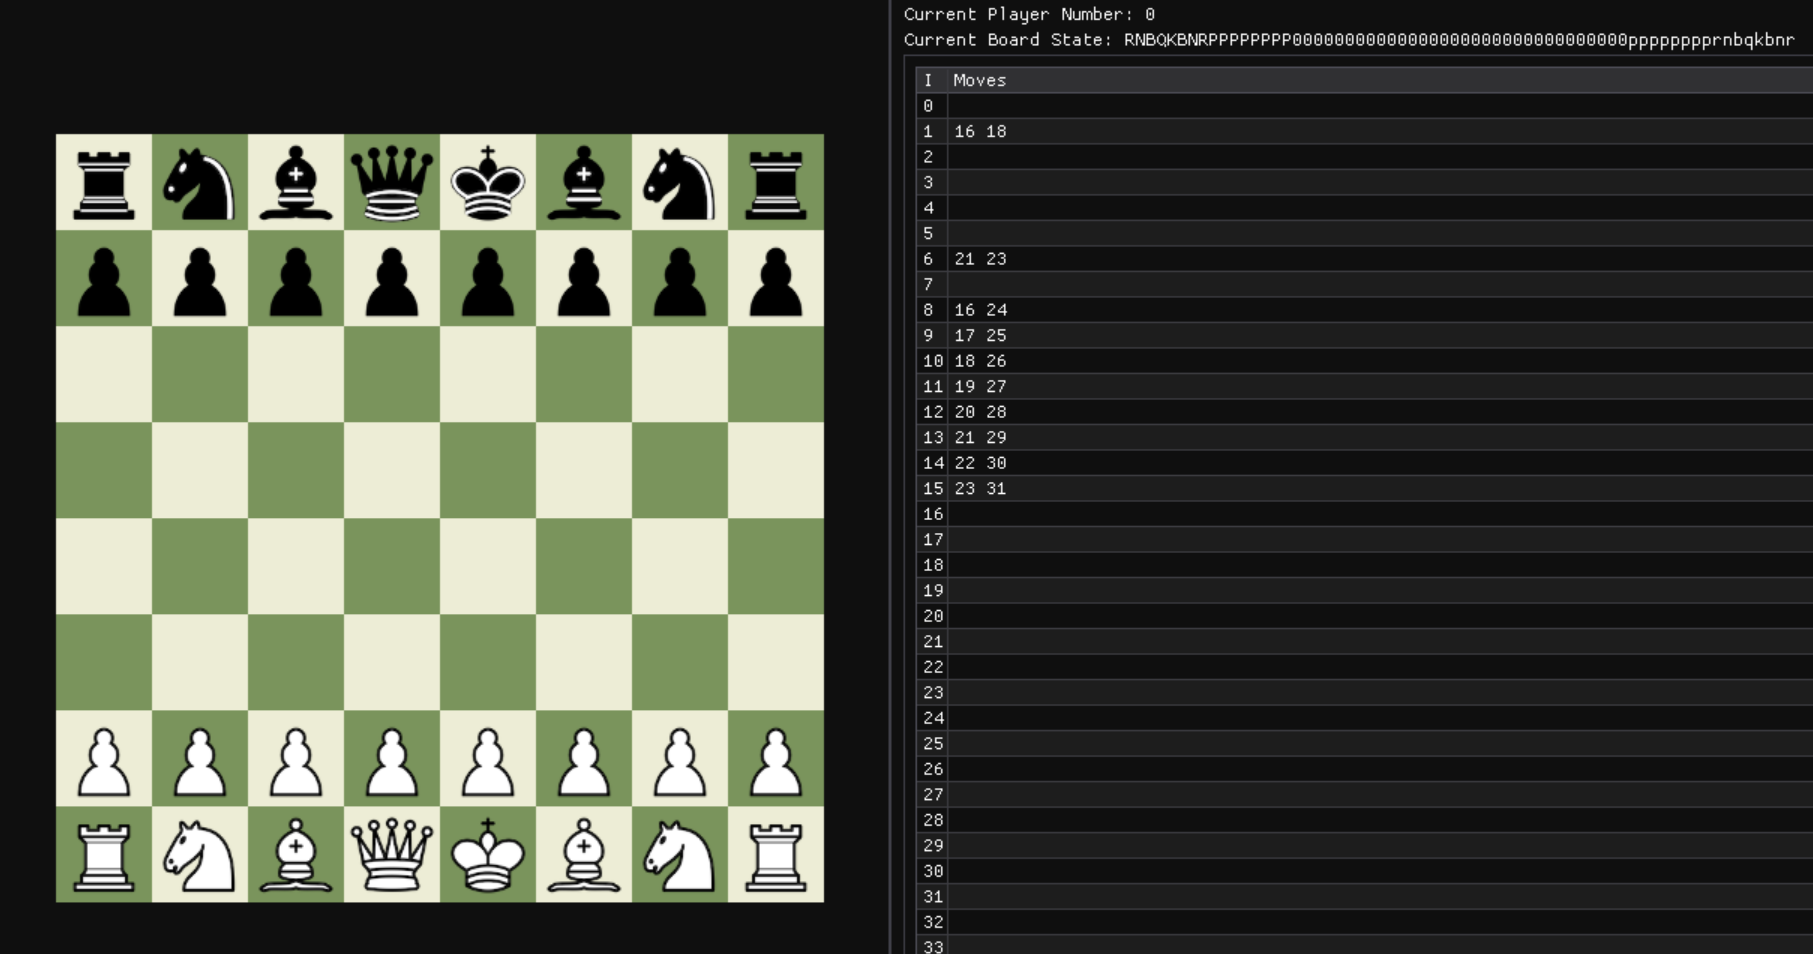
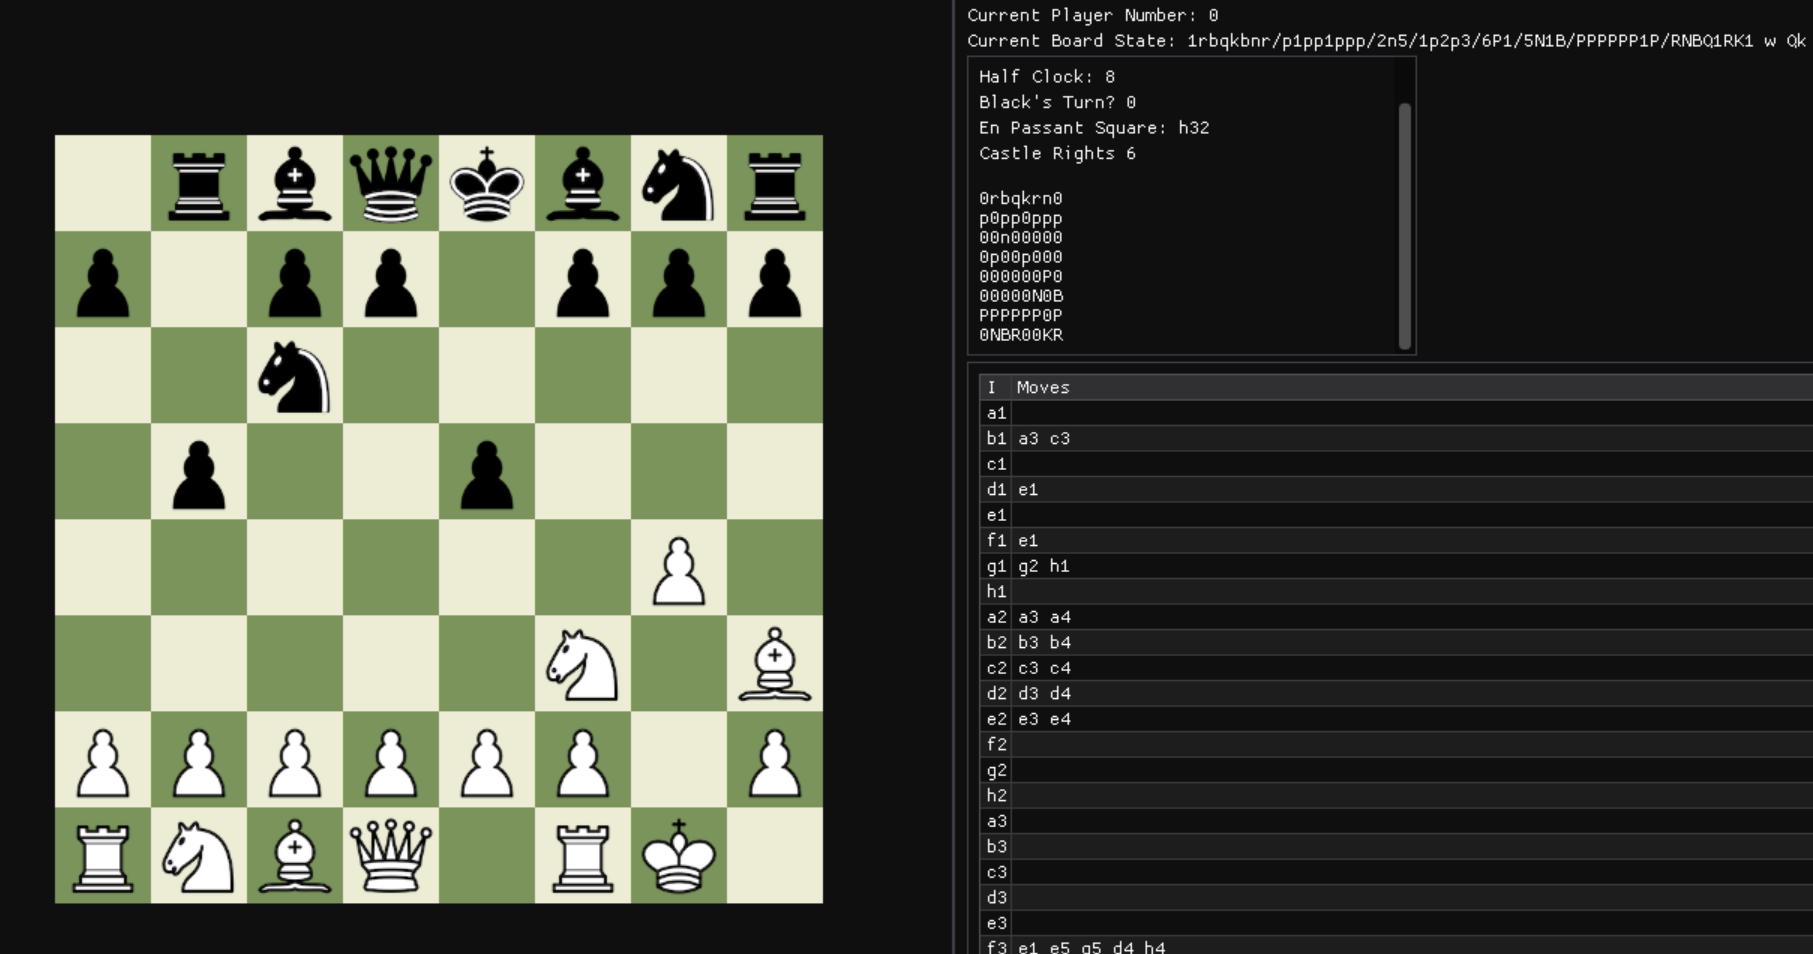
Updated Readme, fixed critical castling oversight, fixed state display.

diff --git a/classes/Chess.cpp b/classes/Chess.cpp
@@ -323,7 +323,7 @@ void Chess::bitMovedFromTo(Bit &bit, BitHolder &src, BitHolder &dst) {
 	if (_state.top().getEnPassantSquare() == j) {
 		_grid[j + (_state.top().isBlackTurn() ? 8 : -8)].destroyBit();
 		// increment score.
-	} else if (move->isCastle()) { // castle
+	} else if (move->isCastle() && ((bit.gameTag() & ChessPiece::King) == ChessPiece::King)) { // castle
 		uint8_t offset = _state.top().isBlackTurn() ? 56 : 0;
 		uint8_t rookSpot = (move->QueenSideCastle() ? 0 : 7) + offset;
 		uint8_t targ = (move->QueenSideCastle() ? 3 : 5) + offset;
@@ -463,9 +463,6 @@ std::string Chess::stateString() {
 	return s;
 }
 
-// for my sanity
-#include <sstream>
-
 // this still needs to be tied into imguis init and shutdown
 // when the program starts it will load the current game from the imgui ini file and set the game state to the last saved state
 // modified from Sebastian Lague's Coding Adventure on Chess. 2:37
@@ -529,10 +526,7 @@ void Chess::setStateString(const std::string& fen) {
 	while (std::isdigit(fen[++i])) { hClock = hClock * 10 + (fen[i] - '0'); }
 	while (std::isdigit(fen[++i])) { fClock = fClock * 10 + (fen[i] - '0'); }
 
-	std::ostringstream oss;
-	oss << "State from FEN: " << fen << " | " << isBlack << ", " << (int)castling << ", " << (int)enTarget << ", " << (int)hClock << ", " << (int)fClock; 
-	Loggy.log(oss.str());
-	_state.emplace(isBlack, castling, enTarget, hClock, fClock);
+	_state.emplace(fen, isBlack, castling, enTarget, hClock, fClock);
 }
 
 // this is the function that will be called by the AI

diff --git a/classes/GameState.cpp b/classes/GameState.cpp
@@ -5,7 +5,7 @@
 
 const uint8_t MAX_DEPTH = 24; // for AI purposes
 // Generate from FEN
-GameState::GameState(const bool isBlack, const uint8_t castling,
+GameState::GameState(const std::string& fen, const bool isBlack, const uint8_t castling,
 	const uint8_t enTarget, const uint8_t hClock, const uint16_t fClock) 
 	: isBlack(isBlack),
 	castlingRights(castling),
@@ -13,6 +13,31 @@ GameState::GameState(const bool isBlack, const uint8_t castling,
 	halfClock(hClock),
 	clock(fClock) {
 	std::memset(state, '0', sizeof(state));
+
+	int file = 7;
+	int rank = 0;
+	for (size_t i = 0; i < fen.size(); i++) {
+		const char symbol = fen[i];
+		if (symbol == ' ') { // terminating when reaching turn indicator
+			break;
+		}
+
+		if (symbol == '/') {
+			for (; rank < 8; rank++) {
+				state[file * 8 + rank] = '0';
+			}
+			rank = 0;
+			file--;
+		} else {
+			// this is for the gap syntax.
+			if (std::isdigit(symbol)) {
+				rank += symbol - '0';
+			} else {
+				state[file * 8 + rank] = symbol;
+				rank++;
+			}
+		}
+	}
 }
 
 // generate next move
@@ -25,6 +50,7 @@ GameState::GameState(const GameState& old, const Move& move)
 	enPassantSquare(move.isDoublePush() ? (move.getTo() + (isBlack ? -8 : 8)) : 255), // 255 b/c not a value normally reachable in gameplay
 	halfClock(move.isCapture() ? 0 : old.halfClock + 1),
 	clock(old.clock + 1) {
+	std::memcpy(state, old.state, sizeof(state));
 	char movingPiece = state[move.getFrom()];
 	state[move.getTo()] = movingPiece;
 	state[move.getFrom()] = '0';

diff --git a/Application.cpp b/Application.cpp
@@ -62,11 +62,16 @@ namespace ClassGame {
 
 		std::string stateStr = "";
 		const char* t = state.getState();
+		int file = 8;
+		int rank = 0;
 		for (int i = 0; i < 64; i++) {
 			if (i % 8 == 0) {
 				stateStr += '\n';
+				file--;
+				rank = 0;
 			}
-			stateStr += t[i];
+			stateStr += t[file * 8 + rank];
+			rank++;
 		}
 		ImGui::Text("%s", stateStr.c_str());
 		ImGui::EndChild();

diff --git a/classes/GameState.h b/classes/GameState.h
@@ -1,13 +1,14 @@
 #pragma once
 
 #include <cstdint>
+#include <string>
 
 #include "Move.h"
 
 class GameState {
 	public:
 	// Generate from FEN
-	GameState(const bool isBlack, const uint8_t castling,
+	GameState(const std::string& fen, const bool isBlack, const uint8_t castling,
 		const uint8_t enTarget, const uint8_t hClock, const uint16_t fClock);
 	
 	// generate next move

diff --git a/classes/Move.h b/classes/Move.h
@@ -62,6 +62,6 @@ class Move {
 	uint16_t getButterflyIndex() const { return move & 0x0fff; }
 
 	protected:
-	uint32_t move;
+	uint32_t move : 24;
 };
 #pragma pack(pop)

diff --git a/README.md b/README.md
@@ -5,6 +5,10 @@
 ## 🎯 Project Overview
 A very rudamentry Chess program (and eventually, AI) based on Graeme Devine's [skeleton code](https://github.com/Spebby/CMPM123-Chess/commits/95c448471543cbf7a933316e770efa8766cd0943/), given a graphical interface with [Dear ImGui](https://github.com/ocornut/imgui/tree/docking). This is the final project for the CMPM-123's Fall '24 Quarter at the University of California, Santa Cruz.
 
+You can view previous phases of this project by checking out the associated branches.
+
+[Part 1](https://github.com/Spebby/CMPM123-Chess/tree/Part-1) -- [Part 2](https://github.com/Spebby/CMPM123-Chess/tree/Part-2) -- [Part 3](https://github.com/Spebby/CMPM123-Chess/tree/Part-3)
+
 ### 🎓 Educational Purpose
 This project serves as a teaching tool for computer science students to understand:
 - Game state representation
@@ -58,13 +62,12 @@ make
 ### Current Features
 - Basic board setup and initialization
 - Piece movement validation framework
-    - No current support for En Passant and Castling.
 - FEN notation parsing and generation
 - Sprite loading for chess pieces
 - Player turn management
 
 ### Planned Features
-- [ ] Support for En Passant and Castling
+- [✓] Support for En Passant and Castling
 - [ ] AI move generation
 - [ ] Position evaluation
 - [ ] Opening book integration
@@ -96,11 +99,11 @@ bool Chess::canBitMoveFromTo(Bit& bit, ChessSquare& src, ChessSquare& dst) {
 }
 ```
 
-Validating that a player's attempted move is simple enough, but building a list of legal moves is harder. For convenience, generated moves for a given position are stored in a hashtable for convenience and quick lookup. While the move generator does not currently check for check (and thus, does not limit "psuedo-illegal" moves), it does generate all moves fairly efficiently for a non-bitboard approach, nix-En Passant and Castling.
+Validating that a player's attempted move is within a piece's rules is simple enough, but building a list of legal moves is harder. For convenience, generated moves for a given position are stored in a hashtable for quick lookup. While the move generator does not currently check for check (and thus, does not limit "psuedo-illegal" moves), it does generate all moves fairly efficiently for a non-bitboard approach.
 
 ### FEN Notation Generation
 
-FEN notation for an individual position is computed and cached when a piece moves to a new holder.
+FEN notation for an individual position is computed and cached when a piece moves to a new holder. This, in combination with keeping track of the current game state, is used to build a FEN string whenever needed.
 
 ```cpp
 inline char generateNotation(ChessBit* abit) {
@@ -117,14 +120,53 @@ inline char generateNotation(ChessBit* abit) {
 
 ```cpp
 std::string Chess::stateString() {
-	std::string s;
+	int file = 7, rank = 0;
 	for (int i = 0; i < _gameOps.size; i++) {
-		s += _grid[i].getNotation();
-	}
+		char piece = _grid[file * 8 + rank].getPieceNotation();
+		rank++;
 
-	return s;
+		if (piece == '0') { // Empty square
+			emptyCount++;
+		} else {
+			if (emptyCount > 0) {
+				s += std::to_string(emptyCount); // Append the count of empty squares
+				emptyCount = 0; // Reset count
+			}
+			s += piece; // Append the piece notation
+		}
+		
+		// Handle row breaks for FEN notation
+		if ((i + 1) % 8 == 0) {
+			if (emptyCount > 0) {
+				s += std::to_string(emptyCount); // Append remaining empty squares at end of row
+				emptyCount = 0;
+			}
+			if (i != (_gameOps.size - 1U)) {
+				s += '/'; // Add row separator
+				rank = 0;
+				file--;
+			}
+		}
+	}
 }
 ```
+
+### Move Encoding
+
+Representing a move internally is a tricky balance. Moving to and from a spot can be efficiently encoded in 12 bits, leaving only 4 bits left over for special data if we hope to keep moves within 2 bytes. While this was a critical sacrifice on older hardware, it's not longer infeasible to allocate just one more byte to make implementing other features easier. As such, every move has 8 flags attached, with room for 4 more if needed. The table for those flags is laid out below.
+
+| **Flag**     | **Binary Code** | **Description**                                                         |
+|--------------|-----------------|-------------------------------------------------------------------------|
+| Capture      | `0b00000001`    | Indicates a capture move.                                               |
+| DoublePush   | `0b00000010`    | Tracks double pawn push (en passant doesn't need separate tracking).    |
+| Castling     | `0b00001100`    | General flag for castling.                                              |
+| QCastle      | `0b00000100`    | Indicates queen-side castling.                                          |
+| KCastle      | `0b00001000`    | Indicates king-side castling.                                           |
+| Promotion    | `0b11110000`    | General flag for pawn promotion.                                        |
+| ToQueen      | `0b00010000`    | Promotion to queen.                                                     |
+| ToKnight     | `0b00100000`    | Promotion to knight.                                                    |
+| ToRook       | `0b01000000`    | Promotion to rook.                                                      |
+| ToBishop     | `0b10000000`    | Promotion to bishop.                                                    |
 
 ## 📚 Class Assignment Structure
 
